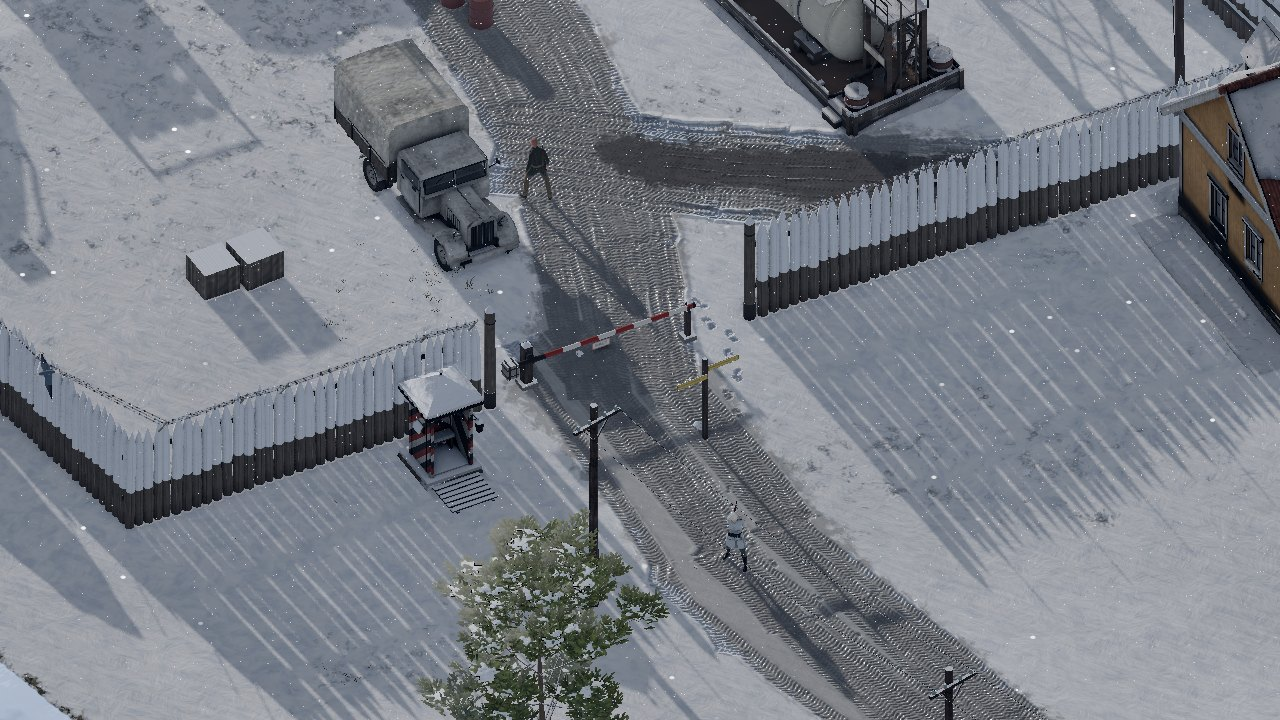
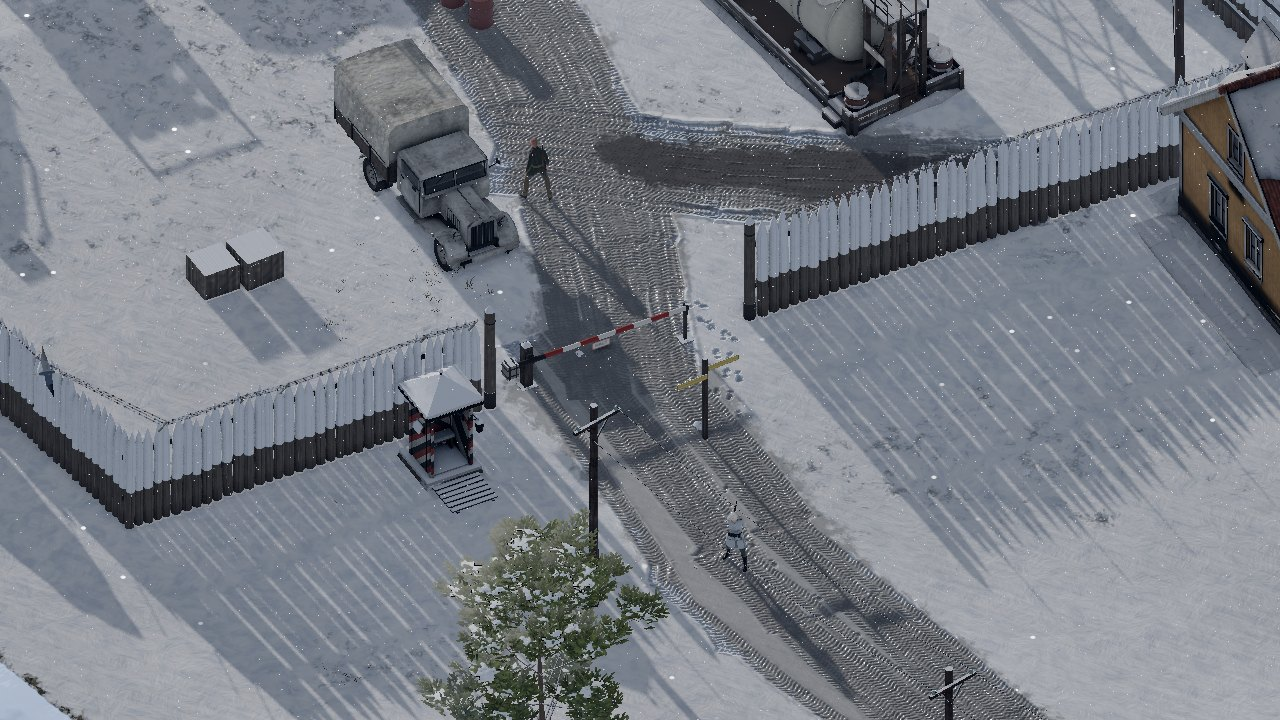
Sync from dev master c76691721: Docs: boom gate / lift graze fix merged
Claude-Session: https://claude.ai/code/session_01VLerBwZuqghUz5tSfkGuoS

diff --git a/src/art/breakable-gates.js b/src/art/breakable-gates.js
@@ -173,6 +173,20 @@ function haltMat() {
   return HALT_MAT;
 }
 
+/**
+ * Where a boom's fork rest is drawn relative to its layout post (world/breakables.js boomLayout `post1`, which the physics,
+ * the body solids and the footway's nav keep): a slim steel post (FORK_HALF square) set FORK_SETBACK back from the footway,
+ * and the pole's free tip stopping POLE_TIP_TRIM short of the layout's end. The footway keeps a man's centre 0.3 m off the
+ * rest's face (world/map-builder.js stampBarrierGaps), but his boot reaches 0.5-0.6 m ahead of it and his hands swing a
+ * hand-span past his hips: a 14 cm timber post on the lane's edge, its 34 cm footing standing 12 cm out of the ground (a
+ * low surface that lifted his boots) and the pole's iron tip 13 cm past the rest's face took a toe 6.3 cm and a boot and a
+ * hand more (clipping seed 11, M2 e6 stepping through the 0.99 m lane at t = 34 s). Drawn this way every part within a
+ * stride of the lane keeps clear of what the nav leaves walkable, or is too thin to be 5 cm deep.
+ */
+export const FORK_HALF = 0.04, FORK_SETBACK = 0.07, POLE_TIP_TRIM = 0.19;
+/** A concrete footing's thickness and the height of its top over the ground: a flush pad, no step (nothing lifts a boot onto it). */
+const FOOTING = { thick: 0.06, top: 0.015 };
+
 /** Boom posts: the pivot post (timber, iron cheek plates, pin, cap, concrete footing), the fork rest, the log gate posts. */
 function boomPost(p) {
   const [hx, hy, hz] = p.h, g = new THREE.Group();
@@ -187,8 +201,11 @@ function boomPost(p) {
     return g;
   }
   const pivot = p.id === 'post0';
-  add(new THREE.BoxGeometry(2 * hx, 2 * hy, 2 * hz), dressingMaterial('creosote'), 0, 0, 0);
-  add(new THREE.BoxGeometry(2 * hx + 0.2, 0.14, 2 * hz + 0.2), dressingMaterial('concrete'), 0, -hy + 0.05, 0); // footing
+  // (the fork rest: slim and set back from the footway, see FORK_HALF; the pivot post beside the pole keeps its section)
+  const sx = pivot ? hx : FORK_HALF, sz = pivot ? hz : FORK_HALF, ox = pivot ? 0 : -FORK_SETBACK;
+  add(new THREE.BoxGeometry(2 * sx, 2 * hy, 2 * sz), dressingMaterial('creosote'), ox, 0, 0);
+  // footing: a pad flush with the ground (top FOOTING.top over it), as wide as the layout's post plus a hand each side
+  add(new THREE.BoxGeometry(2 * hx + 0.2, FOOTING.thick, 2 * hz + 0.2), dressingMaterial('concrete'), ox, FOOTING.top - FOOTING.thick / 2 - hy, 0);
   if (pivot) {
     // the pole turns on a pin in a bearing bolted to the post's face (the post stands 0.3 m behind the pole line)
     const yPole = 1.0 - p.c[1], zPole = -p.c[2];
@@ -205,8 +222,8 @@ function boomPost(p) {
     const nut = add(new THREE.CylinderGeometry(0.04, 0.04, 0.03, 6), ironMat(), 0, yPole, zPole + 0.085);
     nut.rotation.x = Math.PI / 2;
   } else { // fork rest: two flat bars and a rubber saddle the pole drops into
-    for (const sz of [-1, 1]) add(new THREE.BoxGeometry(0.05, 0.26, 0.016), ironMat(), 0, hy + 0.04, sz * 0.082);
-    add(new THREE.BoxGeometry(0.07, 0.02, 0.18), new THREE.MeshStandardMaterial({ color: 0x1b1a19, roughness: 0.9 }), 0, hy + 0.005, 0);
+    for (const side of [-1, 1]) add(new THREE.BoxGeometry(0.05, 0.26, 0.016), ironMat(), ox, hy + 0.04, side * 0.082);
+    add(new THREE.BoxGeometry(0.07, 0.02, 0.18), new THREE.MeshStandardMaterial({ color: 0x1b1a19, roughness: 0.9 }), ox, hy + 0.005, 0);
   }
   return g;
 }
@@ -221,8 +238,8 @@ function counterweight(hx, hy, hz) {
   return g;
 }
 
-/** Pole fittings: the HALT plate hung under the second segment, a red-banded iron end cap on the free end. */
-function poleExtras(m, p) {
+/** Pole fittings: the HALT plate hung under the second segment, a red-banded iron end cap on the free end (`trim`: its tip stops short). */
+function poleExtras(m, p, trim = 0) {
   const r = p.h[1];
   if (p.id === 'pole1') {
     const plate = mk(new THREE.BoxGeometry(0.52, 0.23, 0.012), [ironMat(), ironMat(), ironMat(), ironMat(), haltMat(), haltMat()]);
@@ -232,18 +249,24 @@ function poleExtras(m, p) {
   }
   if (!p.seamMax && p.seamMin) { // free end: iron ferrule
     const f = mk(new THREE.CylinderGeometry(r * 1.06, r * 1.06, 0.07, 12), ironMat());
-    f.rotation.z = Math.PI / 2; f.position.x = p.h[0] - 0.035; m.add(f);
+    f.rotation.z = Math.PI / 2; f.position.x = p.h[0] - trim - 0.035; m.add(f);
   }
 }
 
 /** Mesh for one layout piece, centred on its collider box (rotation rz about z included). */
 function pieceMesh(p, L, kind) {
   const [hx, hy, hz] = p.h;
+  const trim = p.kind === 'pole' && !p.seamMax && p.seamMin && kind === 'boom' ? POLE_TIP_TRIM : 0;
   let m;
   if (p.kind === 'plank') m = mk(splinteredBoard(hx, hy, hz, p.seamBot, p.seamTop), [gateWoodMat(), freshWoodMat(), gateWoodMat()]);
   else if (p.kind === 'rail') m = mk(splinteredRail(hx, hy, hz, p.seamX, p.seamAtMax), [dressingMaterial('logsTarred'), freshWoodMat(), dressingMaterial('logsTarred')]);
   else if (p.kind === 'brace') m = mk(new THREE.BoxGeometry(2 * hx, 2 * hy, 2 * hz), dressingMaterial('logsTarred'));
-  else if (p.kind === 'pole') m = mk(poleSegment(hx, hy, p.seamMin, p.seamMax, { cx: p.c[0], x0: p.x0 }), stripeMat());
+  else if (p.kind === 'pole') {
+    // (the free end stops POLE_TIP_TRIM short of the layout's: see FORK_HALF; the jagged near end and the stripes stay put)
+    const g = poleSegment(hx - trim / 2, hy, p.seamMin, p.seamMax, { cx: p.c[0] - trim / 2, x0: p.x0 });
+    g.translate(-trim / 2, 0, 0);
+    m = mk(g, stripeMat());
+  }
   else if (p.kind === 'weight' && p.round) m = mk(poleSegment(hx, hy, null, null), ironMat());
   else if (p.kind === 'weight') m = counterweight(hx, hy, hz);
   else if (p.kind === 'frame') m = mk(new THREE.BoxGeometry(2 * hx, 2 * hy, 2 * hz), dressingMaterial('galv'));
@@ -260,7 +283,7 @@ function pieceMesh(p, L, kind) {
     else m = boomPost(p);
   } else if (p.kind === 'splinter') m = mk(sliver(hx, hy, hz), freshWoodMat(), false);
   else m = mk(new THREE.BoxGeometry(2 * hx, 2 * hy, 2 * hz), dressingMaterial('planks'));
-  if (p.kind === 'pole') poleExtras(m, p);
+  if (p.kind === 'pole') poleExtras(m, p, trim);
   m.name = `gate-piece:${p.id}`;
   m.position.set(p.c[0], p.c[1], p.c[2]);
   m.rotation.z = p.rz || 0;

diff --git a/src/entities/bcd-interactables.js b/src/entities/bcd-interactables.js
@@ -43,11 +43,17 @@ const box = (w, h, d, color, x, z, y0 = 0) => {
 };
 /** Entity.syncTransform turns a dynamic object3d by headingToRotY (model forward = +z): keep `w` along the heading. */
 const faceHeading = (g) => { if (g?.userData.inner) g.userData.inner.rotation.y = -Math.PI / 2; return g; };
-/** Lift cage: a floor plate and four corner posts (riders stand inside it, not inside a solid block). */
+/**
+ * Lift cage: a floor pad and four corner posts (riders stand inside it, not inside a solid block). Nothing blocks the
+ * nav there, so any man may cross it on the ground: the pad is flush with the ground (a 6 cm slab whose top stands 1.5 cm
+ * over it, not a 10 cm block a crawler or a boot sank into: b00 clipping seed 11, the diver crawling over its corner,
+ * 5.7 cm) and the posts are slim (6 cm square: a limb through one is never 5 cm deep).
+ */
+const CAGE = { pad: 0.06, padTop: 0.015, post: 0.06 };
 const cage = (x, z) => {
-  const g = box(1.8, 0.1, 1.8, dressingMaterial('galv'), x, z);
+  const g = box(1.8, CAGE.pad, 1.8, dressingMaterial('galv'), x, z, CAGE.padTop - CAGE.pad);
   for (const [sx, sz] of [[-1, -1], [1, -1], [1, 1], [-1, 1]]) {
-    const post = new THREE.Mesh(new THREE.BoxGeometry(0.1, 2.4, 0.1), g.userData.inner.material);
+    const post = new THREE.Mesh(new THREE.BoxGeometry(CAGE.post, 2.4, CAGE.post), g.userData.inner.material);
     post.position.set(sx * 0.85, 1.2, sz * 0.85); post.castShadow = true;
     g.add(post);
   }

diff --git a/docs/clipping-audit.md b/docs/clipping-audit.md
@@ -371,6 +371,7 @@ workflow (Rapier); they are logged, not asserted.
 | Raised decks (after master's dam front) | M3 `e2` / `e3` aiming and `e8` running on the dam crest with a shin in its 0.6 m downstream parapet (0.055–0.062 m, both seeds): the crest became a raised walk (grid elevation 7.28 m) which neither the deck cover (decks at ground level) nor the raised-walk clearance (not decks) saw | the raised-walk clearance covers raised decks too (a dam crest, a high bridge); the crossing and every path over the dam are unchanged | `map-builder` `stampWalkClearance` |
 | Boom barrier footway | M2 `barr_out` running through `gate_se`'s footway, an elbow in the fork rest (0.054 m, seed 11); `barr_camp` aiming in the footway with his rifle in the far gate post (0.136 m) | the fork rest and the far gate post keep the 0.3 m body clearance on the footway's side (the footway stays ≥ 0.9 m); a gate's fixed posts (pivot post, fork rest, log gate posts) are body solids (`world/body-clearance.js`) that stand on when the boom is smashed, those from hip height up 0.2 m wider, the fork rest also covering the resting pole tip (a running man's hands, arms and rifle, a crawler's drawn-up knee; `barr_camp`'s hand in the pole tip, 0.065 m; `barr_camp` running past the far post, 0.101 m; the diver crawling past the pivot post, 0.111 m); an aiming man treats the boom's pole line above its rest height as solid (the pole swings up through it whenever the gate opens: M2 `e7`'s rifle in the rising tip, 0.055 m) | `map-builder` `stampBarrierGaps` / `stampBodySolids` |
 | Boom barriers seated on their own HALT plate (2026-10-12, master's clipping run: M2 `e15 × gate_se` 0.065 m @163 s, seed 11) | `e15` in COMBAT beside `gate_se`'s fork rest, outside the gate, aiming across it with his 0.6 m step-back spent: his rifle 6.5 cm into a fork rest 1.9 m tall. The low surfaces (feet heights, `world.groundY`) took the HALT plate's underside under the shut boom (0.66 m), the counterweight's bottom (0.75 m) and a log gate post's tarred band (0.5 m) for ground: the intact model and its physics frame sat 0.66 m up on M2 and on the three M4 booms, the posts stretched to the terrain (fork 1.9 m, pivot cap 2.1 m), a man under an open boom stepped 0.66 m up and one in M2's footway 0.5 m | a gate's leaves (pole, plate, counterweight, plank / wire leaves) and a gate post's band are no surface (`userData.surface = false`, skipped by `lowSurfaces`); on level ground the posts stay as built (a stretch scaled their fittings: the fork 5 cm taller than the layout the rules read, the pivot pin 5 cm under the pole axis) | `art/breakable-gates.js`, `placement-visual.lowSurfaces`, `render/gate-smash-visuals._seat`; tests `gate-seat`, unit `gate-surface` |
+| Fork rest and lift cage drawn beyond what is walkable (2026-10-22, the clipping test on master after feat/straight-paths: M2 `e6 × gate_se` 6.3 cm @34 s, b00 `diver × lift1` 5.7 cm @156 s, seed 11; a latent mismatch, which run catches it is the 0.5 s sample timing and the page's history) | M2: `e6` (INVESTIGATE, a run-pace gait shown with the walk clip) turned at the mouth of the 0.99 m footway with his centre 0.24-0.3 m off the rest (the footway's cell clearance, 0.3 m, then the body solid's 0.35 m rim) and his leading boot 0.63 m ahead: the toe 6.3 cm into the fork rest's 14 cm timber post. The rest's 34 cm footing stood 12 cm out of the ground, a low surface that lifted the boots beside it (6 cm), and the pole's iron tip stood 13 cm past the rest's face, where the footway's 0.3 m clearance is measured from. b00: the lift cage has no nav block (riders stand in it), so a crawling diver crossed its corner: 5 cm into the 10 cm floor block (its corner vertex 5.7 cm into his body) and the corner post | the nav, the physics and the body solids are untouched (M2 / M4 nav hashes equal, M2 solution 940.2 s as before): a probe that poses a man at every point the body clearance leaves him (5-20 cm off the gate's solids) × headings × gait phases and measures it the audit's way (`tests/gate-reach`) drove the drawing. The fork rest is an 8 cm post set back 7 cm (lane face 2.22 → 2.12 m), the pole's free tip stops at the rest (19 cm shorter), the posts' footings are 6 cm pads 1.5 cm over the ground (no step, no lifted boot), the lift's pad likewise and its posts 6 cm square (a vertex in a 6-8 cm post is never 5 cm deep). Guard at a run's pace 6.8 → 3.9 cm (18 of 7488 poses over 5 cm → 0), crawler 6.8 → 3.5 cm (23 of 1161 → 0), crawler at the lift 7.7 → 3.0 cm (156 of 2916 → 0). Not touched: the far log gate post (a crawler's limbs reach it, 13 cm, through the body solid's margin) | `art/breakable-gates.js` (`FORK_HALF` / `FORK_SETBACK` / `POLE_TIP_TRIM`, `boomPost`, `pieceMesh`), `entities/bcd-interactables.js` `cage`; tests `gate-reach` (GPU + unit), unit `gate-surface` |
 | Lying down by a wall (2026-10-12, master's clipping run after the game-rules merge: M3 `diver × start_wall` 0.115 m and `greenberet` 0.11 m @0.5 s, seeds 7 / 11) | the team starts 0.95 m from `start_wall`, facing it; told to crawl, the body fell along the heading, head and hands in the ruin; lying along it, the crawl stroke's knee (0.67 m to the side) reached it too; lying along a wall and sent back the other way, the turn round swung the head or feet through it | a man getting down lies where all of him fits — the prone body toes to muzzle and the crawl stroke's limbs, off structure cells, standing visuals (`solidAt`) and ledges (`placement.proneClear`): as he faces, else facing his path, else the nearest heading, else edged aside ≤ 0.5 m, turned and edged while he gets down (from a crouch, as long as that takes); lying on the ground he turns only through headings that fit, the whole turn (short way, long way, else feet first along his way, else not yet) | `placement.proneClear`, `Unit._lieDownPose` / `_lieDownStep` / `_groundTurn`; tests `prone-wall` (GPU), unit `prone-wall` |
 | Rifles at solid props | b00 `yard_guard` aiming with his barrel in the fuel tank `tank1` (0.08 m, seed 11): the rifle check only knew grid blocks, hulls and wagons, and the tank's visual reaches past its footprint | the body solids carry their height (`top`); an aiming man steps back (a quick half step at 1.6 m/s or faster, done within 0.15 s: before the rifle is up — M2 `e7` 1 m short of a gate post needed 0.4 m) from a solid prop taller than his shoulder too, and the barrel is sampled ±0.25 m across and out to the muzzle (1.15 m; a wagon or fuel tank with 5 cm to spare) (the rifle sits off the body centre; M2 `e7` with his muzzle in a gate post) | `map-builder` `stampBodySolids`, `Unit._keepWeaponRoom` |
 | Lying men turning | b00 Sapper crawling along the fuel tank `tank1`, hands in its side (0.088 m, seed 7): sliding along it, the body guard turned his sim heading 119° in one tick; the shown body (art/prone-ground.js) follows at 112°/s and swept through the tank on the short way round | a crawler's heading (following his path, or sliding along an obstacle) turns no faster than his body is shown turning (M2 diver: his lagging legs swept through the barrier's pivot post); a settle turn (turned clear of a hull in place) is shown pivoting about his hips, as its sweep was checked | `Unit._guardBody`, `Unit._arrive`, `art/prone-ground.js` (`pivot`) |

diff --git a/docs/PROGRESS.md b/docs/PROGRESS.md
@@ -706,3 +706,8 @@ Contract: `docs/ARCHITECTURE.md`. Research: `docs/research.md`. Design: `docs/de
 - M3 polish (art/m03): the S-bank farm as a Norwegian tun (dwelling house, log byre, stabbur, firewood, skigard fence to the river), a parked Opel Blitz in the station yard, ridge tents, drums and a cart. Verified on master: m03-solution 2703.9 0/0, debug-walkthrough-sim ok, render-budget m03 175 draws / 1.65 M tris, preset-determinism m03 ok.
 - M2 (art/m02): Nissen stores outside the NE wall, Lofoten stockfish racks and faerings on the SW shore, open woodshed, firewood and picket garden in the settlement, library crates. m02-solution 940.2 0 det, render-budget m02 266 draws / 1.25 M tris, preset-determinism m02 ok. Unit 2275/0.
 - With M0–M3 done, the second art pass over M4–M20 started (workflow, 4 lanes, branches art2/mNN).
+
+## 2026-10-22 — Boom gate and sandbox lift grazes (merged)
+- clipping M2 seed 11 (e6's toe 6.3 cm into the boom's fork rest post, after the m00/m01 page history) and b00 seed 11 (diver 5.7 cm into the lift cage floor block) fixed in the drawn geometry only: fork rest post 8 cm and set back, pole tip ends at the rest, flush 6 cm footings (M2/M4 booms); lift cage floor pad 6 cm slab, 6 cm posts. Nav hashes for M2/M4 unchanged.
+- Pose sweeps (guard run gait, crawler, walker): worst 6.8–7.7 cm → 3.0–3.9 cm. New `gate-reach` GPU + unit tests (fail on the old geometry). clipping: all five maps, both seeds clean. m02-solution 940.2 0 det; render-budget m02 unchanged; preset-determinism m02/m04 ok.
+- Not fixed: the far log gate post gpost1 (a crawler's limbs ~13 cm through the body-solid margin; needs a nav/body change; never hit by the audit seeds).
